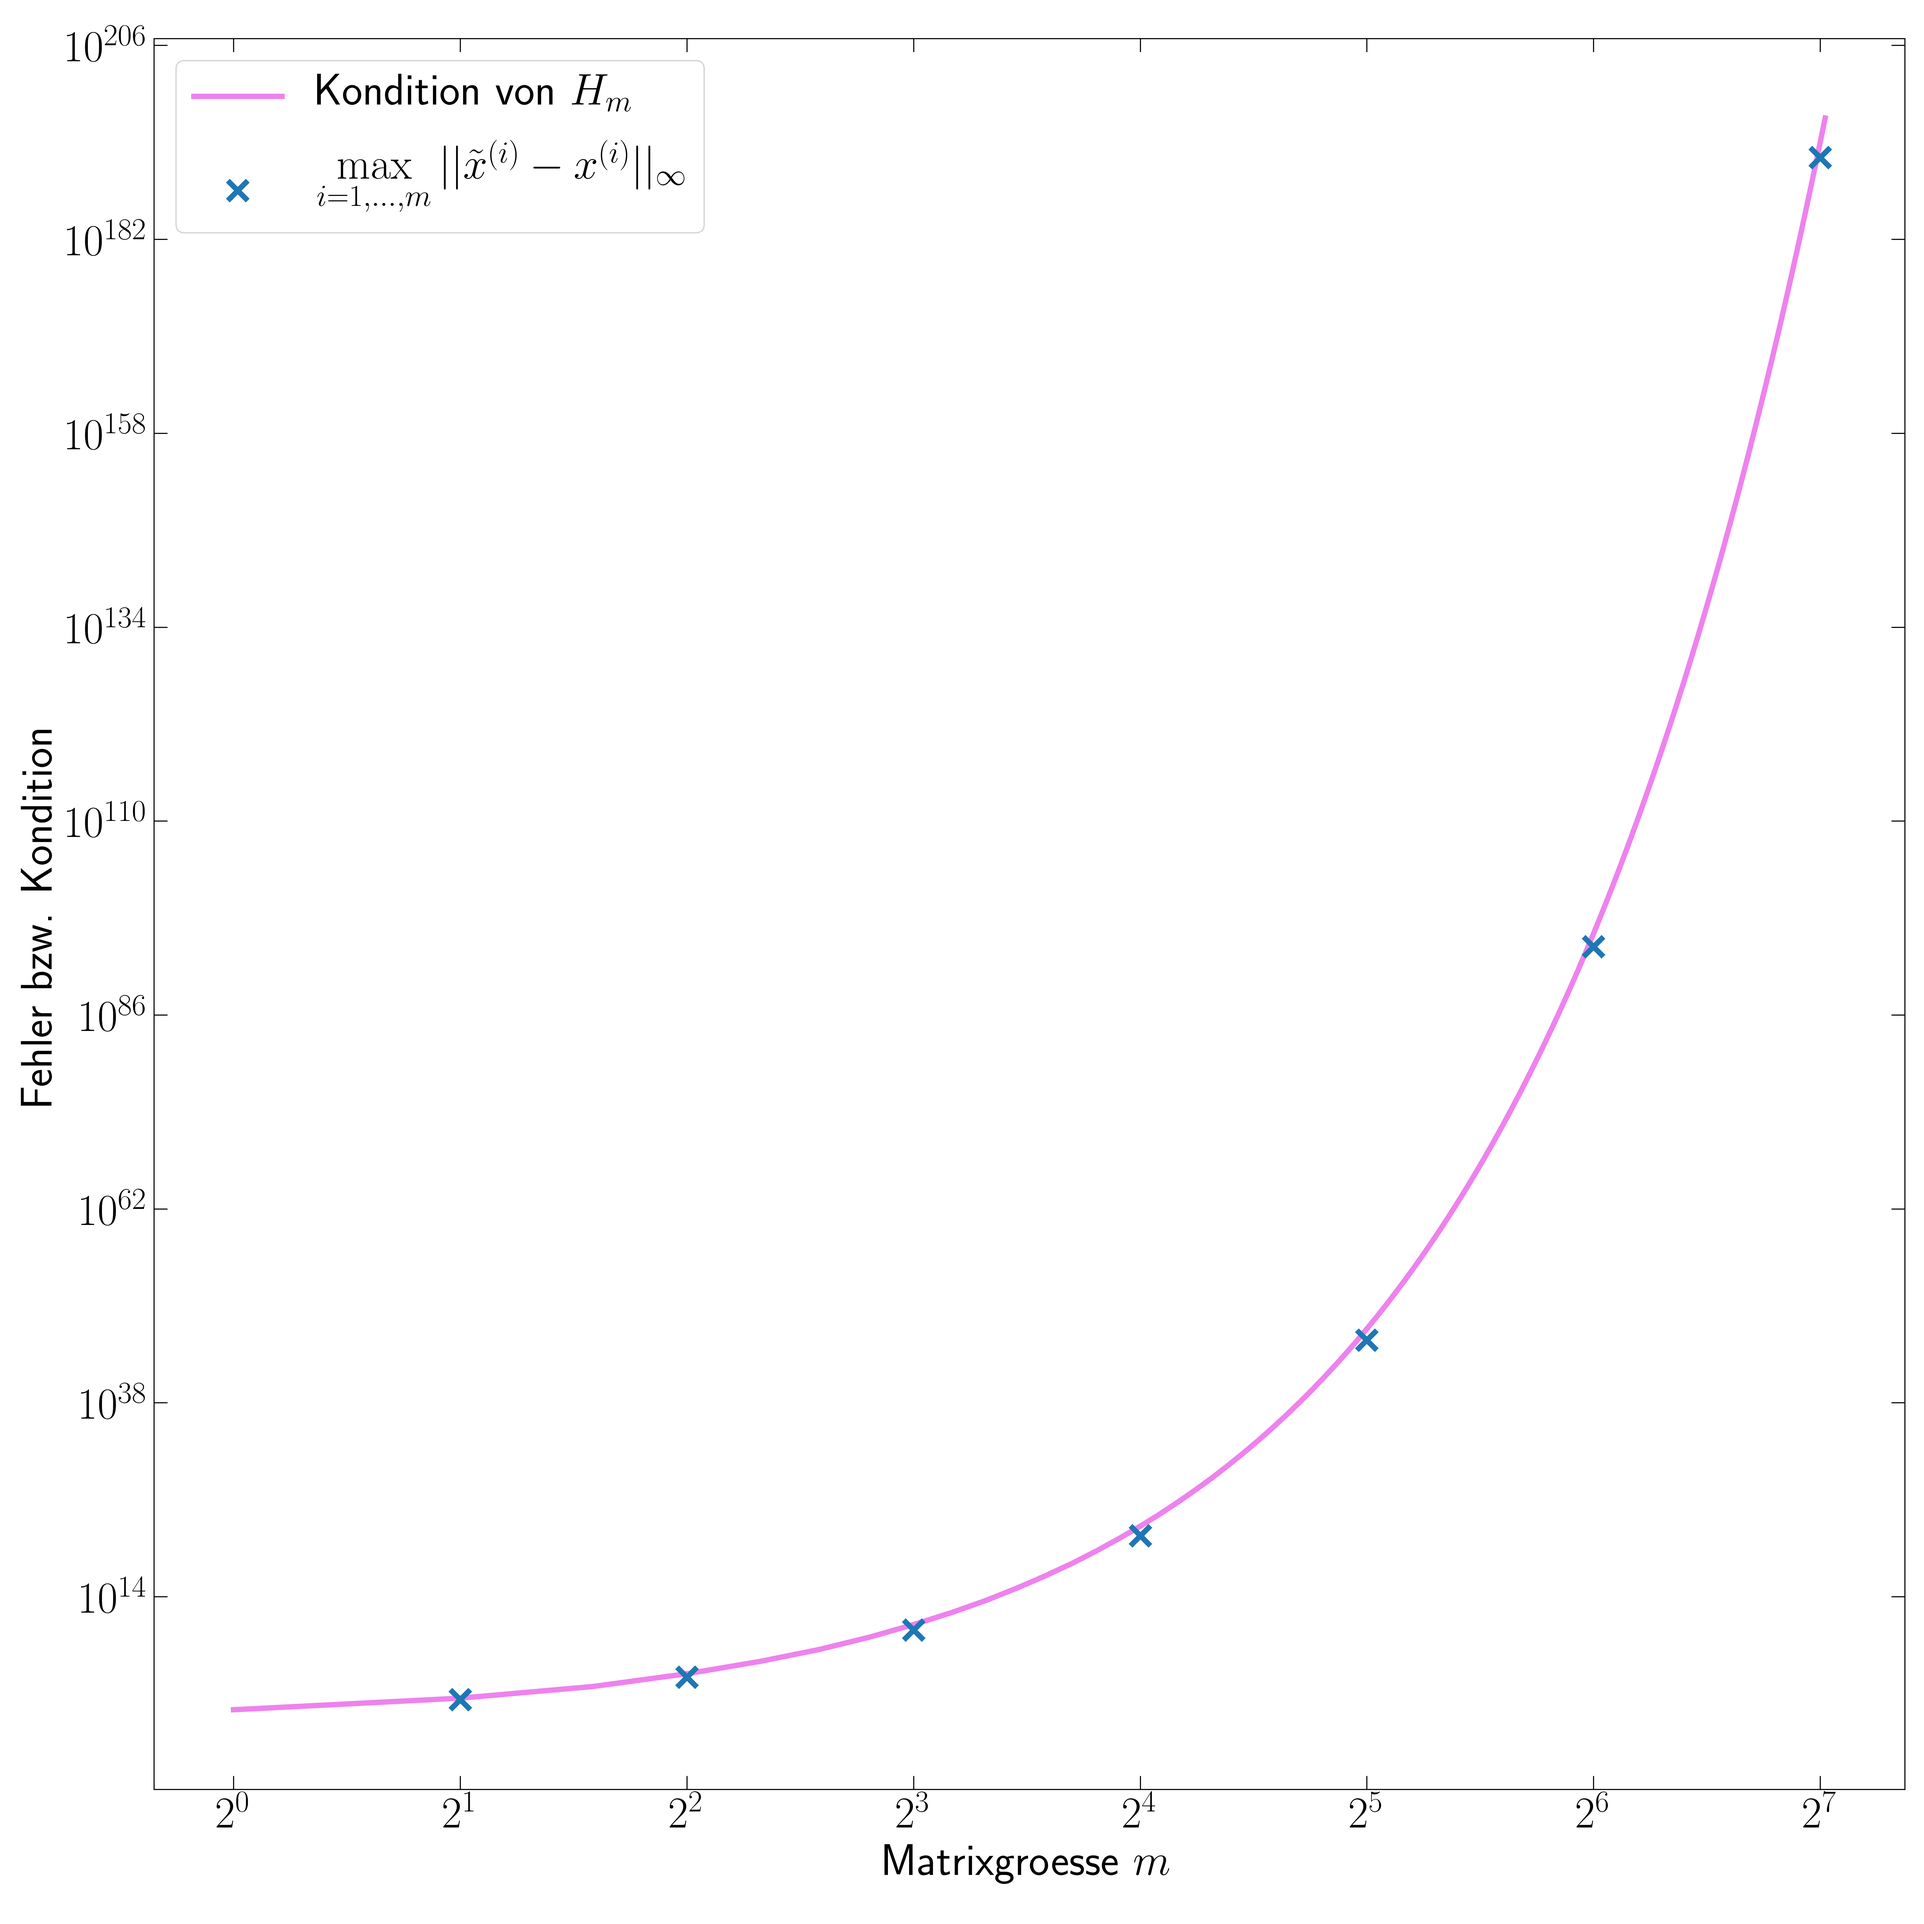
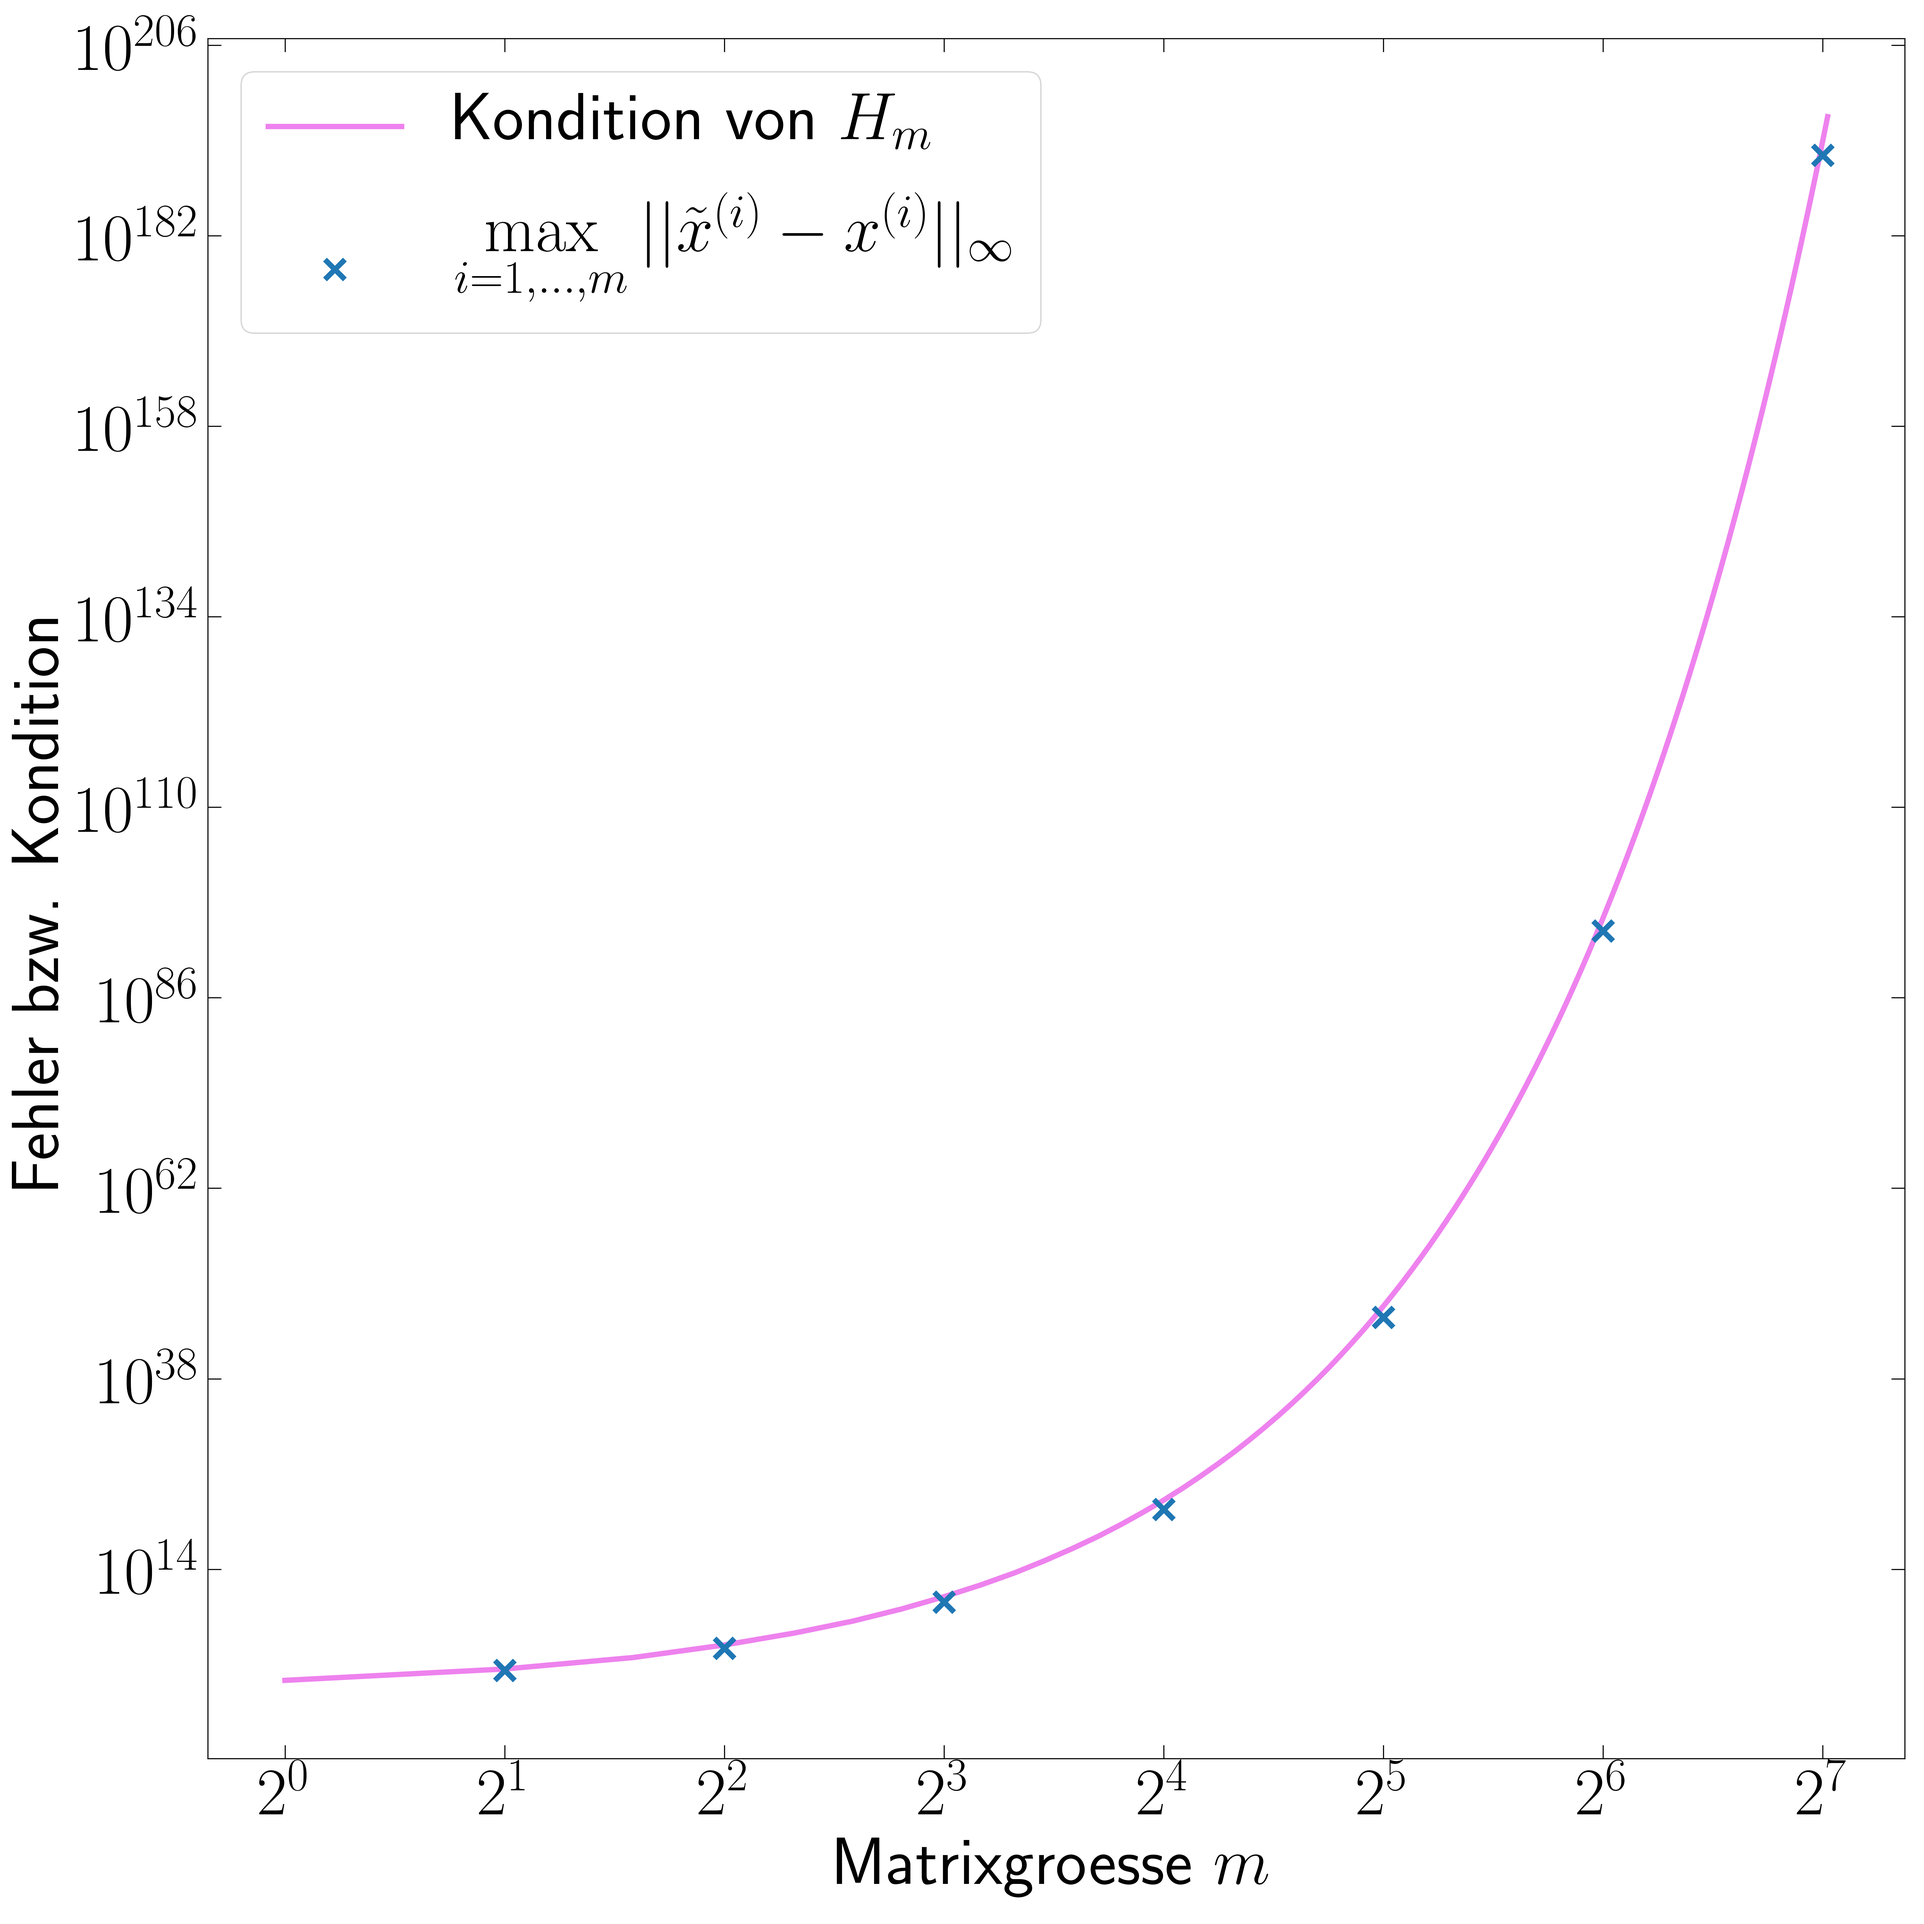
Bericht

diff --git a/Serie_3_2/Bericht.tex b/Serie_3_2/Bericht.tex
@@ -149,14 +149,36 @@ Diese Reihe divergiert. Die Einträge von $H_m^{-1}$ sind dabei sehr groß. Scho
 
 \section{Theorie}
 
+\subsection{Fehlerabschätzung mit Hilfe der Kondition}
+
+Nach Bemerkung~4.4 des Skriptes \textit{Numerische Lineare Algebra} entspricht die Kondition $\kappa(A)$ einer Matrix $A$ der relativen Kondition des linearen Gleichungssystems $f(x)=b \iff Ax=b$. 
 
 \section{Experimente}
 
-Gemäß Aufgabe~3.6 der Aufgabenstellung wurde die Kondition der Hilbertmatrix $H_m$ in Abhängigkeit der Matrixgröße $m$ untersucht und graphisch dargestellt. Ebenso wurde das Gleichungssystem 
+Gemäß Aufgabe~3.6 der Aufgabenstellung wurde die Kondition der Hilbertmatrix $H_m$ in Abhängigkeit der Matrixgröße $m$ experimentell untersucht und graphisch dargestellt. Ebenso wurde das Gleichungssystem 
 \begin{align}
-h
+H_mx^{(i)}=e_i
+\label{eq:hil_lgs}
 \end{align}
-%TODO hier weiter
+für $m=2^k$, $k=0,1,2,\dots$ numerisch unter Ausnutzung der $L$-$U$-Zerlegung (s.~Schnittstellendoku) gelöst. Die aus den numerischen Verfahren gewonnene Lösung $\tilde{x}^{(i)}$ wurde mit der exakten Lösung $x^{(i)}$ verglichen. Letztere ergibt sich aus \eqref{eq:hil_lgs} als die $i$-te Spalte der inversen Hilbert-Matrix:
+\begin{align}
+x^{(i)}=H_m^{-1}e_i\equiv(\text{$i$-te Spalte von }H_m^{-1}).
+\end{align}
+Die beiden Vektoren wurden anhand der Größe
+\begin{align*}
+\max\limits_{i=1,\dots,m}\|\tilde{x}^{(i)}-x^{(i)}\|_\infty
+\end{align*}
+verglichen. Das Ergebnis ist in Abb.~\ref{fig:hil_kond_fehl}
+dargestellt.
+
+\begin{figure}[H]
+\centering
+\includegraphics[width=.8\textwidth]{Bericht/Bilder/hil_kond_fehl}
+\label{fig:hil_kond_fehl}
+\caption{Fehler der numerischen Lösung von \eqref{eq:hil_lgs} und Kondition von $H_m$ in Abhängigkeit von der Matrixgröße $m$.}
+\end{figure}
+
+Man erkennt ein starkes Ansteigen der Kondition von $H_m$ mit $m$. $\kappa(H_m)(m)$ ist in der logarithmischen Darstellung im betrachteten Bereich monoton wachsend und konvex, wächst also schneller als jede endliche Potenz von $m$. Der Wert von $\max\|\tilde{x}^{(i)}-x^{(i)}\|_\infty$ ist für die betrachteten $m$ durch $\kappa(H_m)$ beschränkt.
 
 \section{Zusammenfassung}
 

diff --git a/Serie_3_2/abb_3_6.py b/Serie_3_2/abb_3_6.py
@@ -15,7 +15,7 @@ from scipy import linalg as lina
 
 from matplotlib.ticker import (MultipleLocator, FormatStrFormatter,
                                AutoMinorLocator)
-matplotlib.rcParams.update({'font.size': 33})
+matplotlib.rcParams.update({'font.size': 50})
 plt.rc('text', usetex=True)
 #plt.rc('font', family='Open Sans')
 matplotlib.rcParams['text.latex.preamble'] = [
@@ -178,7 +178,7 @@ def main():
                markeredgewidth=lw)
     plt.xlabel(r"Matrixgroesse $m$")
     plt.ylabel("Fehler bzw. Kondition")
-    plt.subplots_adjust(top=0.98, left=0.08, right=0.99, bottom=0.07)
+    plt.subplots_adjust(top=0.98, left=0.108, right=0.99, bottom=0.086)
     ax_1.tick_params(left=True,right=True,bottom=True,top=True,which='major',length=10)
     ax_1.tick_params(right=True, direction='in',which='both')    
     ax_1.tick_params(left=True,right=True,bottom=True,top=True,which='minor',length=5)
